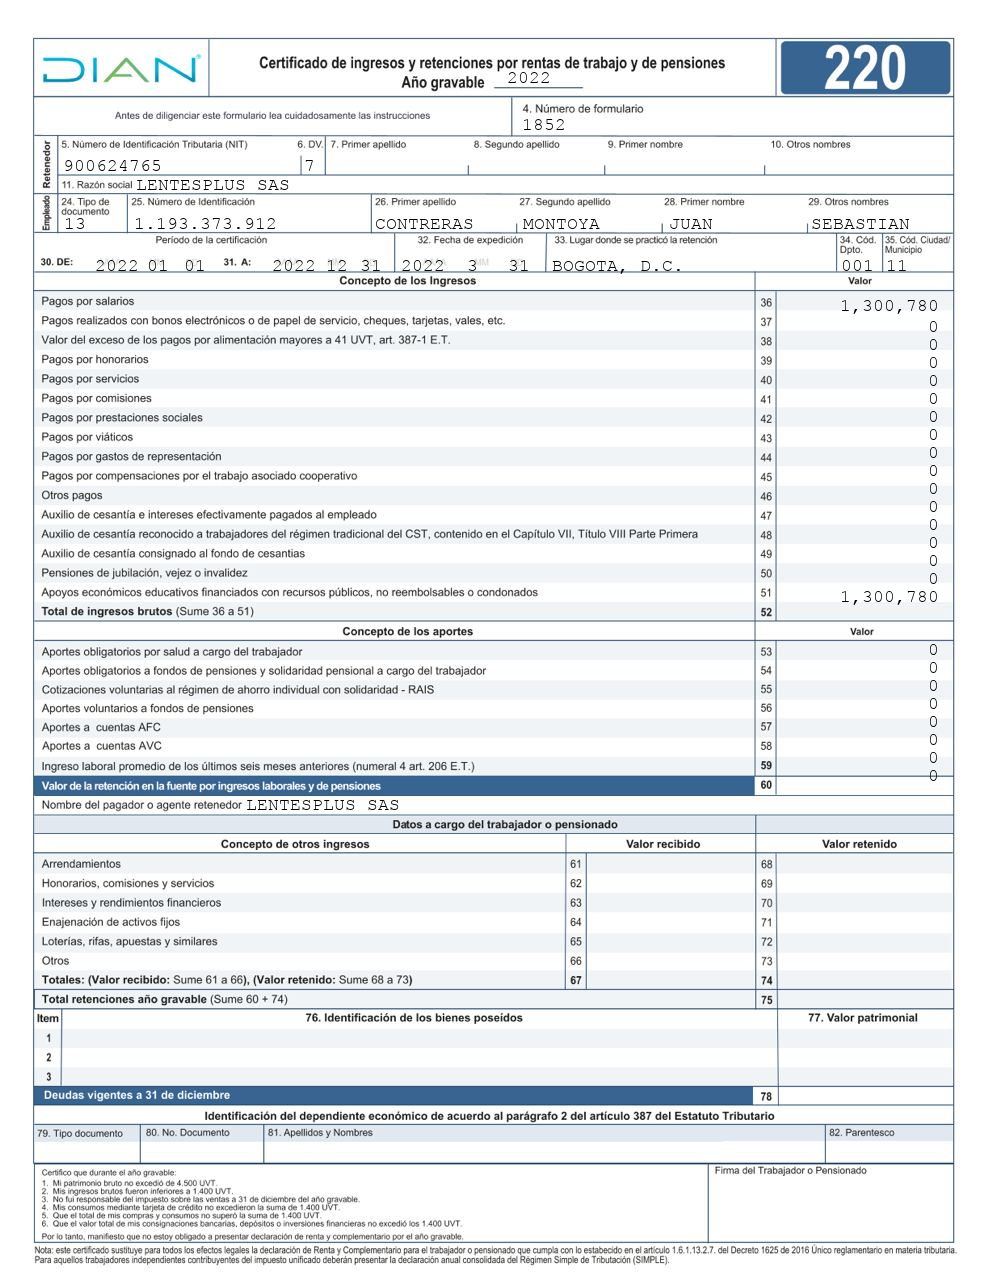
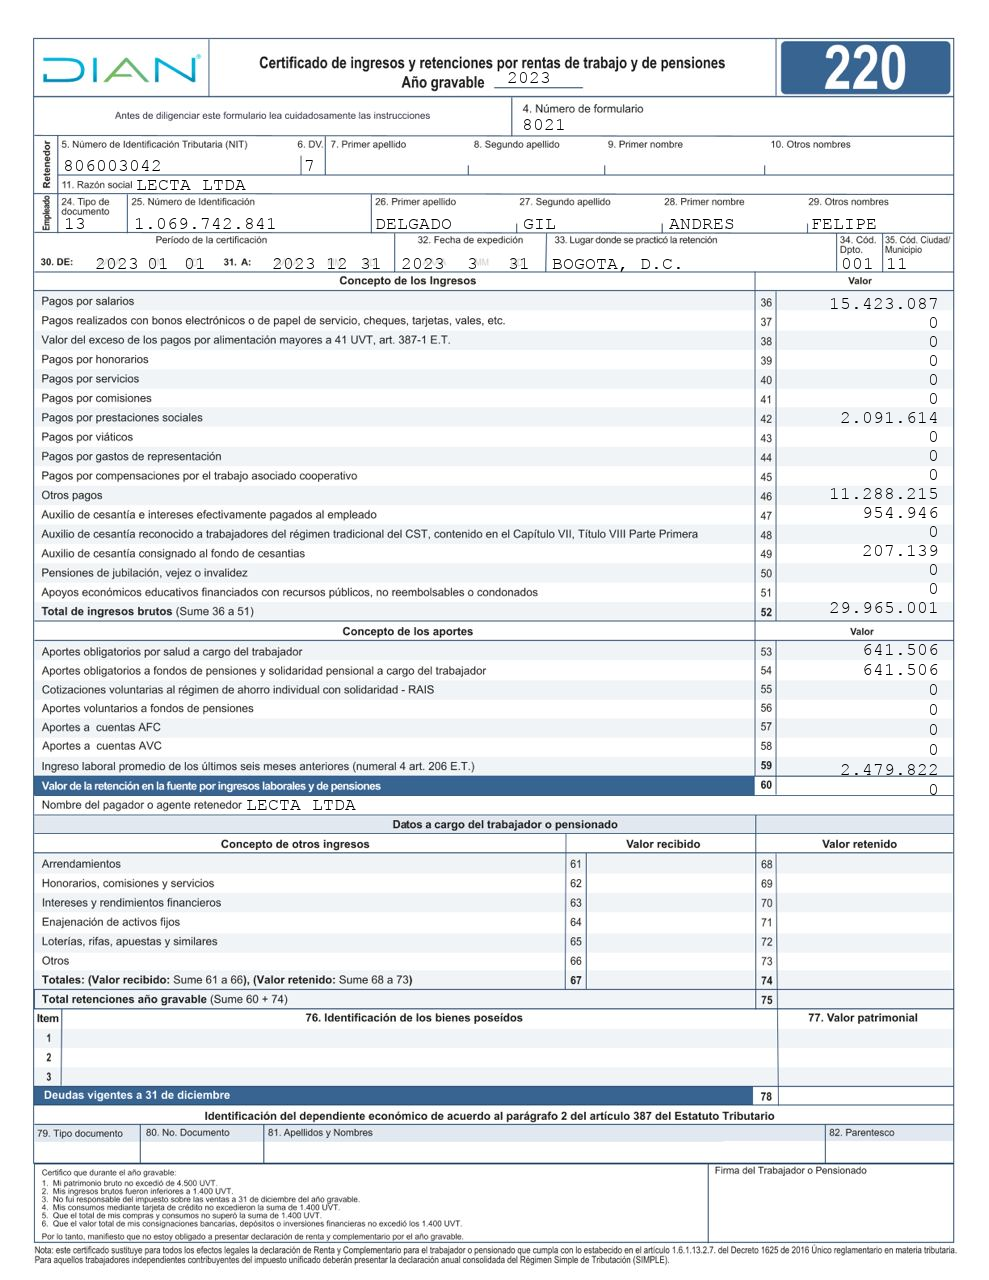
Correcciones varias

diff --git a/templates/employees/comprobantes.html b/templates/employees/comprobantes.html
@@ -90,7 +90,7 @@ Desprendibles
                     <tr>
                         <td>{{ e.idnomina.idnomina }}</td>
                         <td>{{ e.idnomina.nombrenomina }}</td>
-                        <td>{{ e.anoacumular }} - {{ e.mesacumular }}</td>
+                        <td>{{ e.idnomina.fechapago }}</td>
                         <td>
                             <a  href="{% url 'employees:generatepayrollcertificate' e.idnomina.idnomina e.idcontrato %}" target="_blank" class="btn btn-light-info" data-bs-toggle="tooltip" data-bs-custom-class="tooltip-inverse" data-bs-placement="top" title="Ver Comprobante de Nomina" >
                                 Ver

diff --git a/templates/html/payrollcertificate.html b/templates/html/payrollcertificate.html
@@ -100,9 +100,7 @@
             color: #212121;
             text-align: left; 
             padding-left: 5px;
-            padding-bottom:100px
-            
-
+            padding-bottom:100px;
         }
 
         .cuerpo3{
@@ -175,7 +173,6 @@
             align-items: center;
             margin-right: 20px;
         }
-        
     </style>
 </head>
 <body class='body2' >

diff --git a/apps/employees/views/viewdian/imggenerate.py b/apps/employees/views/viewdian/imggenerate.py
@@ -5,6 +5,7 @@ from apps.employees.models import Ingresosyretenciones
 from PIL import Image, ImageDraw, ImageFont
 from django.conf import settings
 from io import BytesIO
+from apps.components.humani import format_value
 
 
 def imggenerate1(idingret):
@@ -25,57 +26,57 @@ def imggenerate1(idingret):
         'sapellido': {'x': 523, 'y': 214, 'data': str(certificado.sapellido)},
         'pnombre': {'x': 669, 'y': 214, 'data': str(certificado.pnombre)},
         'snombre': {'x': 811, 'y': 214, 'data': str(certificado.snombre)},
-        'periodo-1': {'x': 95, 'y': 256, 'data': str(certificado.anoacumular)},
-        'periodo-2': {'x': 147, 'y': 256, 'data': '01'},
-        'periodo-3': {'x': 184, 'y': 256, 'data': '01'},
-        'periodo-4': {'x': 272, 'y': 256, 'data': str(certificado.anoacumular)},
-        'periodo-5': {'x': 326, 'y': 256, 'data': '12'},
-        'periodo-6': {'x': 360, 'y': 256, 'data': '31'},
-        'fechaexp-1': {'x': 401, 'y': 256, 'data': str(year)},
-        'fechaexp-2': {'x': 467, 'y': 256, 'data': str(month)},
-        'fechaexp-3': {'x': 508, 'y': 256, 'data': str(day)},
-        'lugar': {'x': 552, 'y': 256, 'data': str(dataempresa['ciudad_empresa'])},
-        'codedespartamento': {'x': 841, 'y': 256, 'data': str(dataempresa['coddpto'])},
-        'codemunicipio': {'x': 886, 'y': 256, 'data': str(dataempresa['codciudad'])},
+        'periodo-1': {'x': 95, 'y': 254, 'data': str(certificado.anoacumular)},
+        'periodo-2': {'x': 147, 'y': 254, 'data': '01'},
+        'periodo-3': {'x': 184, 'y': 254, 'data': '01'},
+        'periodo-4': {'x': 272, 'y': 254, 'data': str(certificado.anoacumular)},
+        'periodo-5': {'x': 326, 'y': 254, 'data': '12'},
+        'periodo-6': {'x': 360, 'y': 254, 'data': '31'},
+        'fechaexp-1': {'x': 401, 'y': 254, 'data': str(year)},
+        'fechaexp-2': {'x': 467, 'y': 254, 'data': str(month)},
+        'fechaexp-3': {'x': 508, 'y': 254, 'data': str(day)},
+        'lugar': {'x': 552, 'y': 254, 'data': str(dataempresa['ciudad_empresa'])},
+        'codedespartamento': {'x': 841, 'y': 254, 'data': str(dataempresa['coddpto'])},
+        'codemunicipio': {'x': 886, 'y': 254, 'data': str(dataempresa['codciudad'])},
         'retenedor': {'x': 246, 'y': 795, 'data': str(dataempresa['nombre_empresa'])},
     }
     
     value1 = {
-        '36': {'data': str(certificado.salarios)},
+        '36': {'data': format_value(certificado.salarios)},  
         '37': {'data': '0'},
         '38': {'data': '0'},
-        '39': {'data': str(certificado.honorarios) if certificado.honorarios is not None else '0'},
-        '40': {'data': str(certificado.servicios) if certificado.servicios is not None else '0'},
-        '41': {'data': str(certificado.comisiones) if certificado.comisiones is not None else '0'},
-        '42': {'data': str(certificado.prestacionessociales) if certificado.prestacionessociales is not None else '0'},
-        '43': {'data': str(certificado.viaticos) if certificado.viaticos is not None else '0'},
-        '44': {'data': str(certificado.gastosderepresentacion) if certificado.gastosderepresentacion is not None else '0'},
-        '45': {'data': str(certificado.compensacioncta) if certificado.compensacioncta is not None else '0'},
-        '46': {'data': str(certificado.otrospagos) if certificado.otrospagos is not None else '0'},
-        '47': {'data': str(certificado.cesantiasintereses) if certificado.cesantiasintereses is not None else '0'},
+        '39': {'data': format_value(certificado.honorarios)}, 
+        '40': {'data': format_value(certificado.servicios)},
+        '41': {'data': format_value(certificado.comisiones)},
+        '42': {'data': format_value(certificado.prestacionessociales)},
+        '43': {'data': format_value(certificado.viaticos)},
+        '44': {'data': format_value(certificado.gastosderepresentacion)},
+        '45': {'data': format_value(certificado.compensacioncta)},
+        '46': {'data': format_value(certificado.otrospagos)},
+        '47': {'data': format_value(certificado.cesantiasintereses)},
         '48': {'data': '0'},
-        '49': {'data': str(certificado.fondocesantias) if certificado.fondocesantias is not None else '0'},
-        '50': {'data': str(certificado.pensiones) if certificado.pensiones is not None else '0'},
-        '51': {'data': str(certificado.apoyoeconomico) if certificado.apoyoeconomico is not None else '0'},
-        '52': {'data': str(certificado.totalingresosbrutos) if certificado.totalingresosbrutos is not None else '0'},
+        '49': {'data': format_value(certificado.fondocesantias)},
+        '50': {'data': format_value(certificado.pensiones)},
+        '51': {'data': format_value(certificado.apoyoeconomico)},
+        '52': {'data': format_value(certificado.totalingresosbrutos)},
     }
     
     value2 = {
-        '53': {'data': str(certificado.aportessalud) if certificado.aportessalud is not None else '0'},
-        '54': {'data': str(certificado.aportespension) if certificado.aportespension is not None else '0'},
-        '55': {'data': str(certificado.aportesvoluntarios) if certificado.aportesvoluntarios is not None else '0'},
-        '56': {'data': str(certificado.aportesvoluntarios) if certificado.aportesvoluntarios is not None else '0'},
-        '57': {'data': str(certificado.aportesafc) if certificado.aportesafc is not None else '0'},
-        '58': {'data': str(certificado.aportesavc) if certificado.aportesavc is not None else '0'},
-        '59': {'data': str(certificado.ingresolaboralpromedio) if certificado.ingresolaboralpromedio is not None else '0'},
-        '60': {'data': str(certificado.retefuente) if certificado.retefuente is not None else '0'},
+        '53': {'data': format_value (certificado.aportessalud)},
+        '54': {'data': format_value (certificado.aportespension)},
+        '55': {'data': format_value (certificado.aportesvoluntarios)},
+        '56': {'data': format_value (certificado.aportesvoluntarios)},
+        '57': {'data': format_value (certificado.aportesafc)},
+        '58': {'data': format_value (certificado.aportesavc)},
+        '59': {'data': format_value (certificado.ingresolaboralpromedio)},
+        '60': {'data': format_value (certificado.retefuente)},
     }
 
     # value1
-    value1 = {k: {'data': '{:,.0f}'.format(float(v['data']))} if v['data'].replace('.', '', 1).isdigit() else v for k, v in value1.items()}
+    value1 = {k: {'data': '{:,.0f}'.format(float(v['data']))} if v['data'].replace(',', '.', 1).isdigit() else v for k, v in value1.items()}
 
     # value2
-    value2 = {k: {'data': '{:,.0f}'.format(float(v['data']))} if v['data'].replace('.', '', 1).isdigit() else v for k, v in value2.items()}
+    value2 = {k: {'data': '{:,.0f}'.format(float(v['data']))} if v['data'].replace(',', '.', 1).isdigit() else v for k, v in value2.items()}
 
 
     image = Image.open(settings.STATICFILES_DIRS[0] + "/img/dian/220-2023.jpg")
@@ -91,8 +92,8 @@ def imggenerate1(idingret):
 
     max_width, max_height = image.size
     x = max_width - 50
-    y = 296
-    line_spacing = 7
+    y = 294
+    line_spacing = 8
 
     for campo, info in value1.items():
         dta = info['data']
@@ -104,7 +105,7 @@ def imggenerate1(idingret):
         y += text_height + line_spacing
 
     y = 640
-    line_spacing = 7
+    line_spacing = 9
     
     for campo, info in value2.items():
         dta = info['data']

diff --git a/apps/components/payrollgenerate.py b/apps/components/payrollgenerate.py
@@ -2,6 +2,12 @@ from django.db.models import F, Value, CharField, IntegerField
 from apps.employees.models import Contratosemp, Contratos, Nomina ,Crearnomina
 from django.db.models import Sum
 from .datacompanies import datos_cliente
+from apps.components.humani import format_value
+
+def limitar_cadena(cadena, max_length=25):
+    if len(cadena) > max_length:
+        return cadena[:max_length-3] + '...'
+    return cadena
 
 
 def genera_comprobante(idnomina, idcontrato):
@@ -18,10 +24,14 @@ def genera_comprobante(idnomina, idcontrato):
 
         # Formatear valores con puntos para los miles en dataDevengado
         for item in dataDevengado:
-            item.valor = "{:,}".format(int(item.valor)).replace(",", ".") # Aplica formato de separador de miles
+            item.valor = format_value(item.valor) # Aplica formato de separador de mil
+            item.nombreconcepto = limitar_cadena(item.nombreconcepto)
+            print(item.nombreconcepto)
             
         for item in dataDescuento:
-            item.valor = "{:,}".format(int(item.valor)).replace(",", ".") # Aplica formato de separador de miles
+            item.valor = format_value(item.valor) # Aplica formato de separador de miles
+            item.nombreconcepto = limitar_cadena(item.nombreconcepto)
+            print(item.nombreconcepto)
 
         # Calcular la suma de todos los valores en dataDevengado
         sumadataDevengado = dataDevengado.aggregate(total=Sum('valor'))['total'] or 0
@@ -47,7 +57,7 @@ def genera_comprobante(idnomina, idcontrato):
             'idnomi': idnomina,
             'fecha1': contrato.fechainiciocontrato,
             'cargo': contrato.cargo,
-            'salario': contrato.salario,
+            'salario': format_value(contrato.salario),
             'cuenta': contrato.cuentanomina,
             'ccostos': contrato.idcosto.nomcosto,
             'periodos': periodo,
@@ -55,9 +65,9 @@ def genera_comprobante(idnomina, idcontrato):
             'pension': contrato.pension,
             'dataDevengado': dataDevengado,
             'dataDescuento': dataDescuento,
-            'sumadataDevengado': "{:,}".format(int(sumadataDevengado)).replace(",", "."), # Formatear la suma con separador de miles
-            'sumadataDescuento': "{:,}".format(int(sumadataDescuento)).replace(",", "."), 
-            'total':"{:,}".format(int(total)).replace(",", "."),
+            'sumadataDevengado': format_value(sumadataDevengado), # Formatear la suma con separador de miles
+            'sumadataDescuento': format_value(sumadataDescuento), 
+            'total':format_value(total),
             
         }
     else:

diff --git a/apps/components/workcertificategenerator.py b/apps/components/workcertificategenerator.py
@@ -7,7 +7,7 @@ from apps.employees.models import  Certificaciones, Nomina ,Contratosemp ,Contra
 from django.db.models import Q,Sum
 from django.utils import timezone
 import pytz
-
+from apps.components.humani import format_value
 
 
 
@@ -91,7 +91,7 @@ def workcertificategenerator(ide,destino ,modelo):
     certificacion = Certificaciones(destino=destino,
                                     idcontrato=idc, 
                                     idempleado=empleado, 
-                                    salario=salario_certificado, 
+                                    salario= salario_certificado, 
                                     cargo=cargo, 
                                     tipocontrato=nombre_contrato, 
                                     codigoconfirmacion = codigo_confirmacion, 
@@ -126,7 +126,7 @@ def workcertificategenerator(ide,destino ,modelo):
             'fecha':datae['fechainiciocontrato'],
             'fechafincontrato':datae['fechafincontrato'],
             'cargo':datae['cargo'],
-            'sueldo': "{:,.0f}".format(salario).replace(',', '.'),
+            'sueldo': format_value(salario),
             'tipoc':datae['nombre_contrato'] , 
             
             # certificado 

diff --git a/apps/employees/views/certificaciones_laborales.py b/apps/employees/views/certificaciones_laborales.py
@@ -12,7 +12,7 @@ from django.contrib import messages
 from apps.employees.models import  Certificaciones
 from apps.components.decorators import custom_permission
 from django.contrib.auth.decorators import login_required
-
+from apps.components.humani import format_value
 
 
 def get_empleado_name(empleado):

diff --git a/apps/employees/views/comprobantes_nomina.py b/apps/employees/views/comprobantes_nomina.py
@@ -77,8 +77,8 @@ def listaNomina(request):
         'cont': cont
     })
 
-@login_required
-@custom_permission('employees')
+# @login_required
+# @custom_permission('employees')
 def generatepayrollcertificate(request ,idnomina,idcontrato,):
     context = genera_comprobante(idnomina,idcontrato)
 

diff --git a/apps/components/humani.py b/apps/components/humani.py
@@ -1,0 +1,8 @@
+
+def format_value(value):
+    if value is None:
+        return '0'
+    try:
+        return "{:,}".format(int(value)).replace(",", ".")
+    except ValueError:
+        return str(value)
